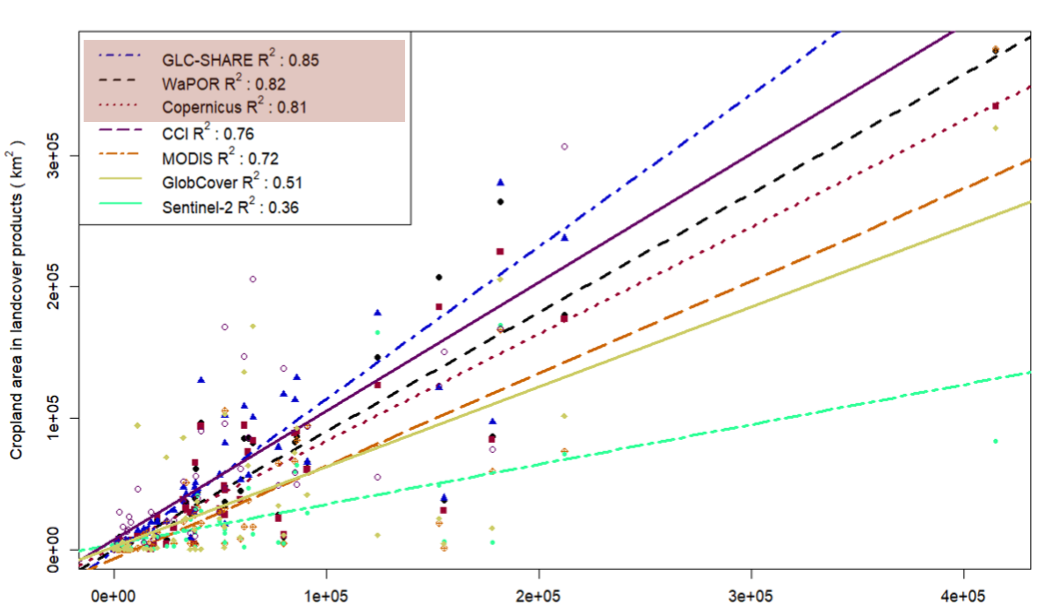
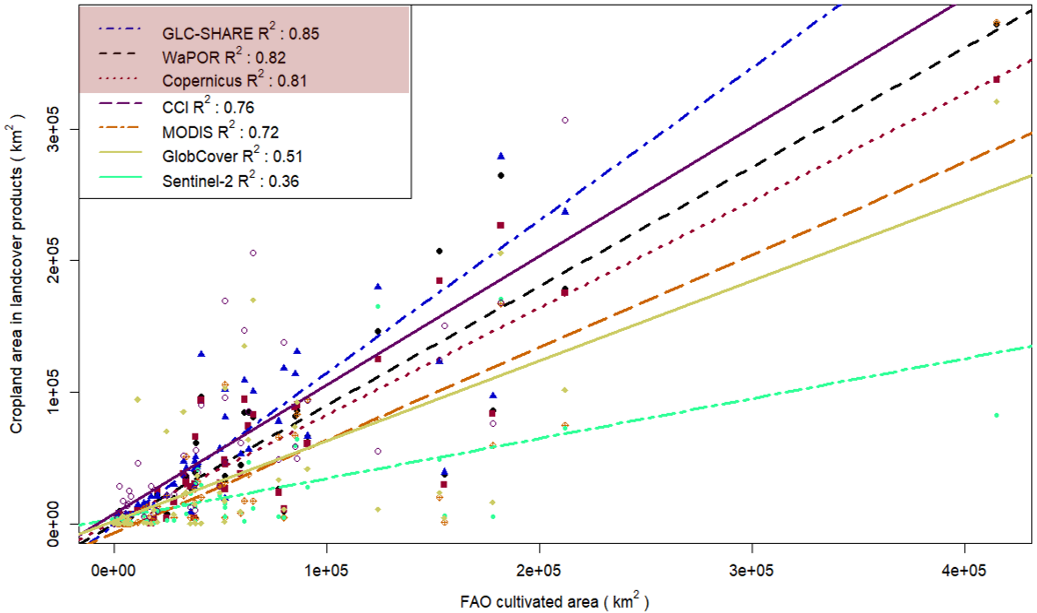
change comparison image

diff --git a/Partitioned Croplands/README.md b/Partitioned Croplands/README.md
@@ -138,7 +138,7 @@
 
 2. Comparison of the area of each crop mask to country level data on cultivated area from FAO’s Aquastat data portal
 
-![Comparison of Area](/Figures/Comparison_of_areas_.png)
+![Comparison of Area](/Figures/Comparison_of_areas_new.png)
 
 <div align="center">
 
